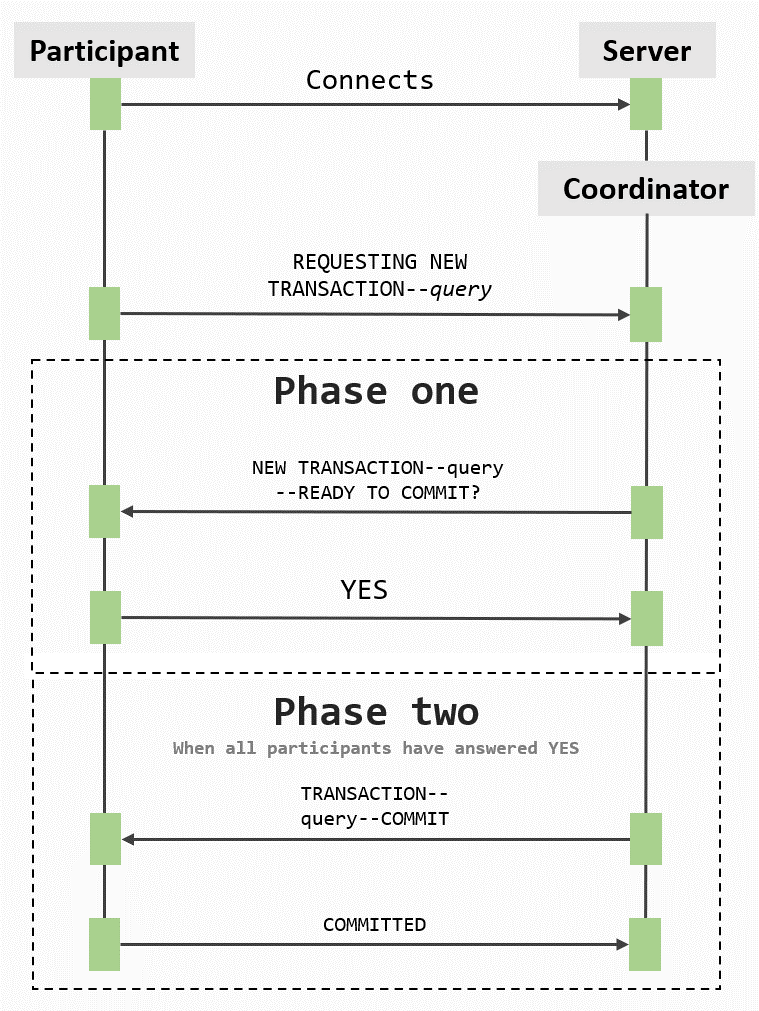
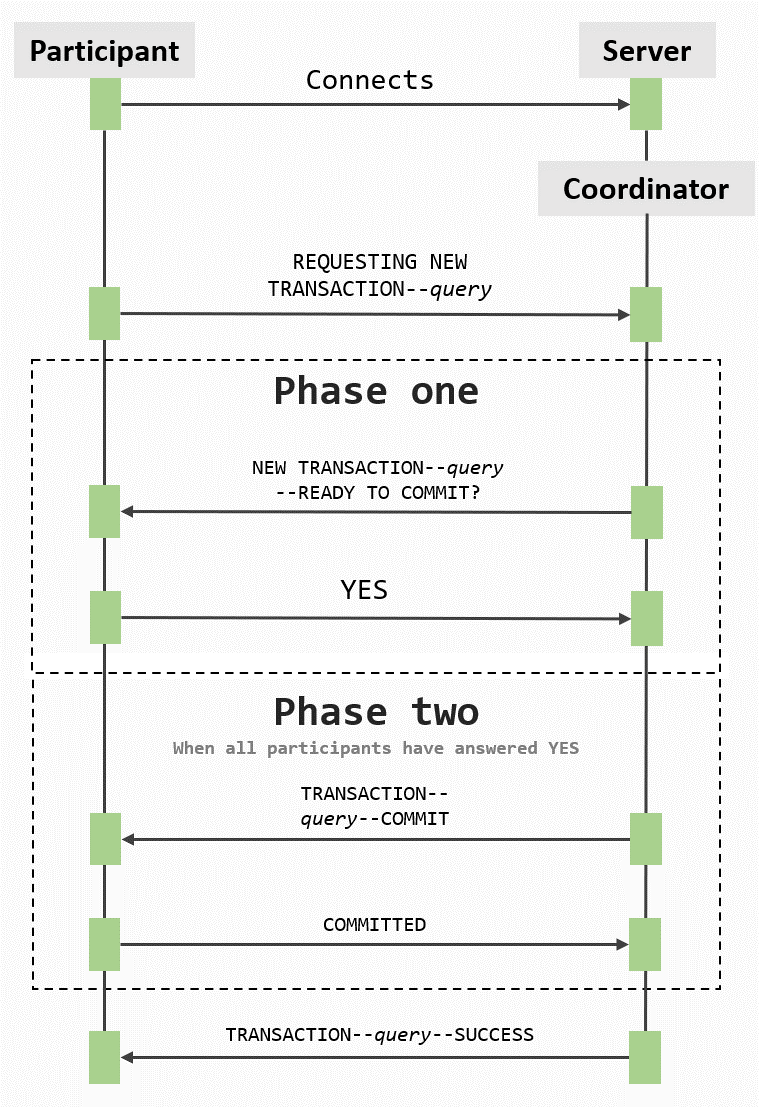
changed readme

diff --git a/project/src/client/Participant.java b/project/src/client/Participant.java
@@ -98,7 +98,7 @@ public class Participant {
 
                     /* Executes instructions and reports back either with COMMITTED or ROLLBACKED */
                     response = this.executeInstructionsAndReport(instructions);
-                    System.out.println("COORDINATOR: " + response);
+                    System.out.println(response);
 
                 }
 
@@ -239,10 +239,10 @@ public class Participant {
             reportBack = false;
         }
         if (!reportBack){
-            return "shutdown due to timeout";
+            return "CLIENT: Shutdown due to timeout";
         }
         /* Waits for response */
-        String response = this.readFromCoordinatorWithBlocking();
+        String response = "COORDINATOR: " + this.readFromCoordinatorWithBlocking();
         return response;
     }
 

diff --git a/project/src/server/Server.java b/project/src/server/Server.java
@@ -38,7 +38,7 @@ public class Server {
             };
             Future<Object> promise = executor.submit(waiter);
             try {
-                Object res = promise.get(10, TimeUnit.SECONDS);
+                Object res = promise.get(100, TimeUnit.SECONDS);
                 participants.add(new ClientHandler((Socket)res, id));
                 participants.get(participants.size() - 1).sendToParticipant("You are connected with id " + id);
                 System.out.println("Client connected.\nClient id: " + id + "\nNumber of clients: " + participants.size() + "\n");

diff --git a/README.md b/README.md
@@ -29,18 +29,22 @@ Vi har programmert en Two-Phase Commit Protocol (TPCP). Protokollen brukes i et 
 
 ## <a name="beskrivelse"></a> Beskrivelse
 
-Fase 1:
-I den første fasen forberedes alle transaksjonene. Alle klientene må også svare ja/nei om de har intruffet et problem.
+Som navnet tilsier, så deles Two-Phase Commit Protocol opp i to faser.
 
-Fase 2:
+### Fase 1
+
+I den første fasen mottar alle deltakerne melding fra koordinator om at en transaksjon er satt igang. Alle klientene skal svare ja eller nei om de har intruffet et problem. Fase 1 består da av to meldinger, en hver vei.
+
+### Fase 2
+
 Om alle klientene stemte ja i forrige fase blir endringen lagret. Om en klient stemte nei blir tansaksjonen kanselert.
-Kordinatoren informerer da alle klientene og sørger for at ingen endringer blir lagret.
+Kordinatoren informerer da alle klientene og sørger for at ingen endringer blir lagret. I fase 2 sendes det altså instruksjoner fra koordinator til deltakerne. Deltakerne svarer så med en kvittering på at instruksjonene er fullført.
+
+I tillegg til de grunnleggende meldingene som sendes mellom koordinator og deltakerne har vi lagt til noen flere som bygger på protokollen. I figuren under ser man hvordan meldingsflyten foregår gjennom en vellykket transaksjon. Figuren tar utgangspunkt i synspunktet fra en individuell deltaker.
 
 <img src="documentation/figures/tpcp.png" alt="Figur som viser flyten i en vellykket transaksjon" height="550">
 
 ### Implementert funksjonalitet
-
-### Teknologi- og arkitektur-/designvalg
 
 ### Eksempler med bruk av løsningen
 
@@ -84,6 +88,17 @@ En transaksjon settes igang av en av deltakerne. Dette gjøres med kommandoen `!
 Når alle klientene har svart ja, begynner fase to. Koordinator vil da sende ut en ny melding hvor den instruerer deltakerne til å lagre oppføringen. Klientene sender tilbake kvittering om at instruksjonene er utført. Fase to skjer automatisk og krever ingen handlinger fra brukeren.
 
 ## <a name="diskusjon"></a> Diskusjon
+
+### Teknologi- og arkitektur-/designvalg
+
+Vi kan skrive om
+
+1. TCP
+2. Arbeidsoppgavene hver klasse har
+3. At brukeren ikke kan skrive "--" i en request
+4. Hvorfor vi valgte java
+5. Vår tolkning av protokollen ut fra wikipedia siden
+6. Testbiblioteker og andre biblioteker vi brukte
 
 ### Fremtidig arbeid
 
